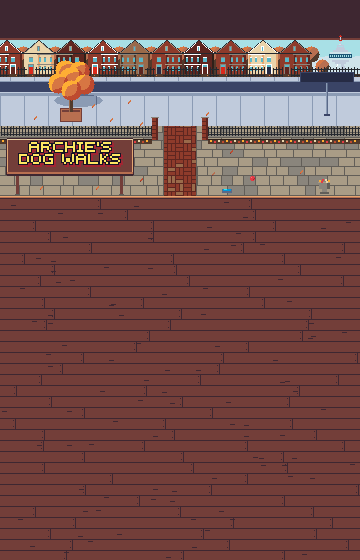
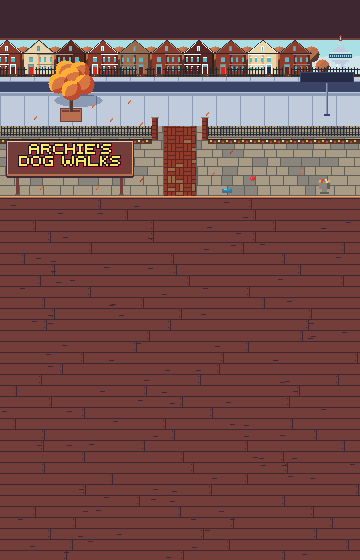
Lower the start screen's yard sign 2 px: the board at 6,140, over the same posts

Changed region(s): [[0.0, 0.2429, 0.3667, 0.3339]]

diff --git a/art/tools/screens.py b/art/tools/screens.py
@@ -28,7 +28,7 @@ reads on them.
   Pocket sections and Start walk. The street sign's board (300,72 54x11, a
   52x9 navy face) sits at the right edge, clear of the walker's speech bubble;
   the game prints homeText.gateSign on it in font-body, white, centred at
-  327,75. The yard sign (SIGN_AT 6,138, a 128x38 board on two posts, left of
+  327,75. The yard sign (SIGN_AT 6,140, a 128x38 board on two posts, left of
   the gate path, where the pack never stands) carries ARCHIE'S over DOG WALKS
   in the sign letters at 2x, yellow. The yard's right lot is left for ui-pet-shop. The scene holds no
   strong green, so the Pet shop's board and Start walk stand out.
@@ -140,7 +140,7 @@ from ui import STATES  # noqa: E402
 W, H = 360, 560
 LOGO_W, LOGO_H = 145, 41
 SIGN_W, SIGN_H = 128, 38
-SIGN_AT = (6, 138)
+SIGN_AT = (6, 140)
 PET_SHOP_W, PET_SHOP_H = 120, 108
 PET_SHOP_AT = (234, 86)
 # The PET SHOP board in the sprite: ui-button's go state 114x22, its bottom 2 rows over the parapet.
